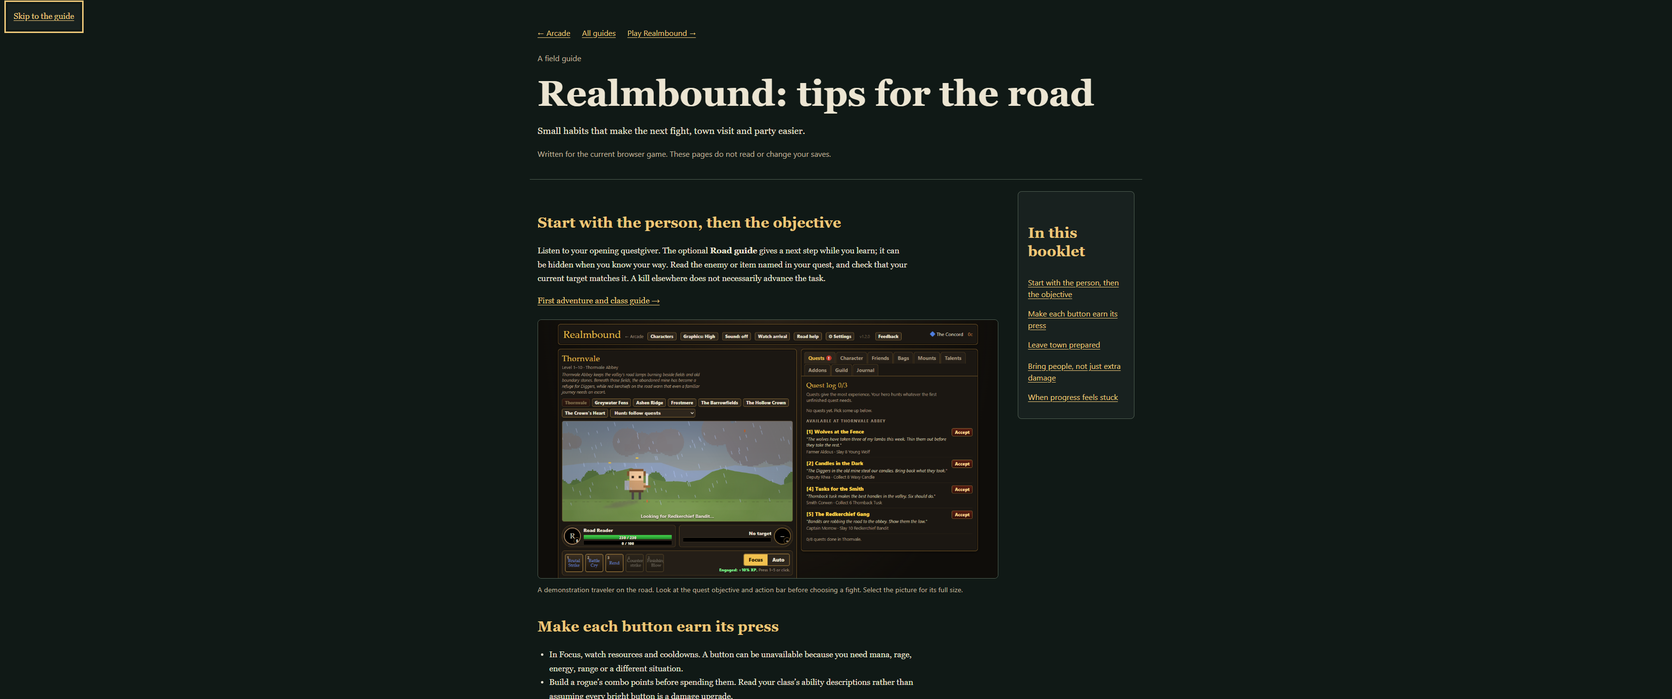
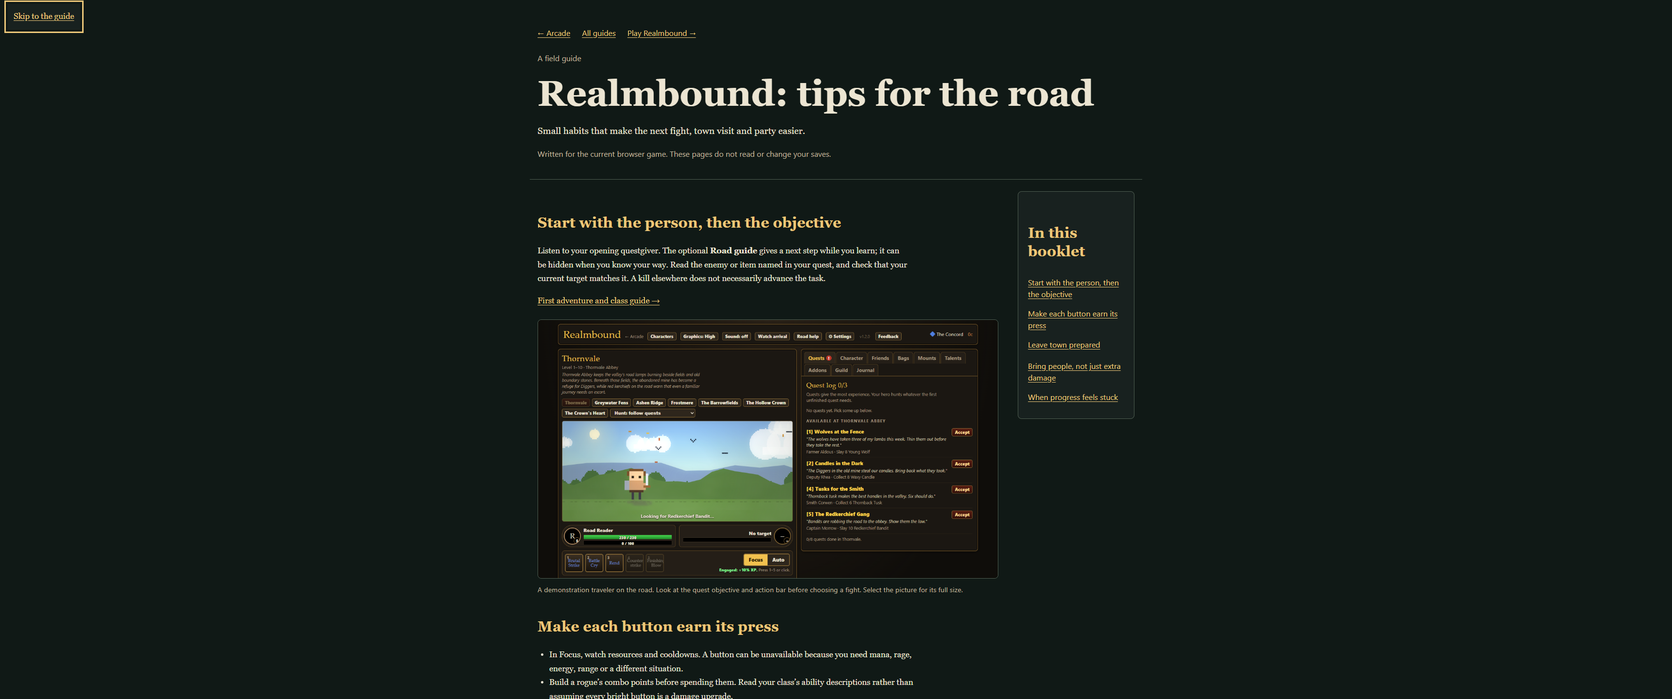
Explain Realmbound's rooms and commissions in its field guide

Changed region(s): [[0.311, 0.5938, 0.4977, 0.6875]]

diff --git a/guides/realmbound.html b/guides/realmbound.html
@@ -29,7 +29,7 @@
 <tr><td>Frostmere</td><td>30–40</td><td>Lanternrest Lodge / Whitebough Hearth</td></tr></tbody></table>
 <!-- GENERATED:places:end -->
 </section>
-<section id="start"><h2>2. Getting started: the first fifteen minutes</h2><ol><li><strong>Create a traveler.</strong> Choose a faction, one of its races, a class, a name and a journey length. You can keep several characters in the same browser save. Start with one until the controls feel familiar.</li><li><strong>Follow the first quest.</strong> Creating a hero accepts the opening quest automatically. Listen to the opening questgiver’s arrival scene; the optional Road guide can help you find the next step. Read the Quests tab and compare its requested enemy or drop with the target. The world loop finds fights; the action bar is where you decide how to handle them.</li><li><strong>Press an ability yourself.</strong> Stay in Focus while learning. Watch your health, resource, cast bar and cooldowns rather than pressing every button at once. Rage, energy and mana support different rhythms. An unavailable action usually needs time, a resource or the right situation.</li><li><strong>Collect the corpse.</strong> Take loot after a fight; the <kbd>L</kbd> key also loots. Open Bags and compare usable equipment with what you wear. Equip upgrades yourself while building the habit that earns GearCompare.</li><li><strong>Return the completed quest.</strong> A finished objective is ready to turn in; select its reward. Accept the next available task and hear what the giver says. Quest chains have prerequisites, so a later chapter will not appear simply because you traveled there.</li><li><strong>Make a town visit.</strong> Sell junk and repair equipment. Walk the hub with arrow keys or WASD, or tap the ground, and meet its services. Keeping space in Bags prevents useful drops being left behind.</li></ol>
+<section id="start"><h2>2. Getting started: the first fifteen minutes</h2><ol><li><strong>Create a traveler.</strong> Choose a faction, one of its races, a class, a name and a journey length. You can keep several characters in the same browser save. Start with one until the controls feel familiar.</li><li><strong>Follow the first quest.</strong> Creating a hero accepts the opening quest automatically. Listen to the opening questgiver’s arrival scene; the optional Road guide can help you find the next step. Read the Quests tab and compare its requested enemy or drop with the target. The world loop finds fights; the action bar is where you decide how to handle them.</li><li><strong>Press an ability yourself.</strong> Stay in Focus while learning. Watch your health, resource, cast bar and cooldowns rather than pressing every button at once. Rage, energy and mana support different rhythms. An unavailable action usually needs time, a resource or the right situation.</li><li><strong>Collect the corpse.</strong> Take loot after a fight; the <kbd>L</kbd> key also loots. Open Bags and compare usable equipment with what you wear. Equip upgrades yourself while building the habit that earns GearCompare.</li><li><strong>Return the completed quest.</strong> A finished objective is ready to turn in; select its reward. Accept the next available task and hear what the giver says. Quest chains have prerequisites, so a later chapter will not appear simply because you traveled there.</li><li><strong>Make a town visit.</strong> Sell junk and repair equipment. Walk the hub with arrow keys or WASD, or tap the ground. Enter the Inn and speak to its Keeper to rest; enter the Smithy and speak to its Smith to sell scraps or repair. Press Enter or walk into a person to talk. Entering a room alone spends nothing. Keeping space in Bags prevents useful drops being left behind.</li></ol>
 <p>Fifteen minutes is a learning route, not a timed requirement. If a fight feels too hard, inspect gear and durability, restore yourself and choose a safer target. You can take the longer journey without racing someone else's progress. Your hero begins with equipment; you do not need to buy an imaginary starter weapon before playing.</p>
 <p class="note">You may change journey length outside a dungeon: Breezy grants 60% more XP, Classic uses the intended baseline, and Long Road grants 40% less XP. These are XP choices, not separate stories or a guarantee of fixed completion hours.</p></section>
 <section id="systems"><h2>3. Systems explained</h2><h3>Health, resources and money</h3><p>Health is your margin for surviving a fight. Warriors spend rage, rogues use energy and combo points, and the other classes use mana. An ability's description tells you what it spends and how it helps. Resources are not shop currencies. Copper, silver and gold are ways of displaying your money, which pays for services, riding and other purchases. XP fills the next level; rested XP supplements kills rather than quest turn-ins.</p>
@@ -39,8 +39,17 @@
 <p>Kill XP is shared with a group bonus, so it is divided rather than awarded in full to everyone. Quest rewards remain whole. That makes grouped progress different from simply multiplying solo damage, and means a measured ideal group journey is not a forecast of solo play.</p>
 <h3>Pets and the stable</h3><p>Hunters tame beasts their level or lower during combat. Tame Beast channels for six seconds while the beast can still attack: prepare enough health before beginning. Pet families have different combat roles, diets and abilities. Feed appropriate food, watch happiness and build a bond through victories. Hungry pets lose effectiveness; a fallen pet needs reviving. The stable holds up to three pets and switches the active one in town.</p>
 <h3>Mounts and travel</h3><p>Riding is learned in town. Apprentice Riding starts at 10; Journeyman at 20. Learning a riding skill and owning a mount are separate purchases. A mount shortens travel and improves through time ridden. Some hunter pets can be trained as mounts once they meet the displayed riding, level and bond requirements; spiders cannot carry a rider. Read the stable's conditions before saving money for a particular animal.</p>
-<h3>Supplies and the guild</h3><p>Characters you are not currently playing can work the jobs board. Mining gathers ore, Herbalism gathers herbs and Questing pays the worker in XP and money. Supply progress is shared in the account's bank. Six ore make a repair kit; four herbs make a healing potion. Kits repair your equipment. Automatic potions can be switched off; when enabled, they are emergency help with a cooldown rather than limitless healing.</p>
-<p>A guild needs a level-40 hero in town, five signatures and five gold. Your other characters and sufficiently friendly companions can sign. Members have moods, favors and work to do; ignoring them indefinitely has consequences. Guard duty contributes guild XP, guild levels improve the account's XP bonus, and higher levels expand job slots. A guild is a developing community, not an immediate grant of free raid victories.</p>
+<h3 id="town-services">Rooms along the road</h3><p>Every region has its own town layout. Fenwatch uses boardwalks through the marsh; Lanternrest has a snowy lodge courtyard. The Inn and Smithy have walkable interiors. Speak to the Keeper for a free rest with your companions, or the Smith for scrap sales and repairs. Read the repair price before choosing. The bottom door returns you beside the building you entered. Auto keeps its usual Smithy visit and road exit.</p><figure><a href="images/realmbound-fenwatch.png"><img src="images/realmbound-fenwatch.png" alt="Fenwatch Post has boardwalks across marsh water and distinct Inn, Guild Hall and Smithy buildings." width="2106" height="904" loading="lazy"></a><figcaption>Fenwatch Post, viewed in the actual browser game with a demonstration traveler. Select the picture for its full size.</figcaption></figure><h3>Supplies and the guild</h3><p>Characters you are not currently playing can work the jobs board. Mining gathers ore, Herbalism gathers herbs and Questing pays the worker in XP and money. Supply progress is shared in the account's bank. Six ore make a repair kit; four herbs make a healing potion. Kits repair your equipment. Automatic potions can be switched off; when enabled, they are emergency help with a cooldown rather than limitless healing.</p>
+<p>A guild needs a level-40 hero in town, five signatures and five gold. Your other characters and sufficiently friendly companions can sign. Members have moods, favors and work to do; ignoring them indefinitely has consequences. Guard duty contributes guild XP, guild levels improve the account's XP bonus, and higher levels expand job slots. A guild is a developing community, not an immediate grant of free raid victories.</p><h3 id="commissions">A dependable piece from level 55</h3><p>With a founded guild, choose <strong>Commission guild gear</strong> when speaking to the Smith inside a Smithy. Browse the patterns, then inspect the item, your available supplies and the full price. Missing requirements are shown plainly. Nothing is spent until you confirm; the finished equipment goes into your Bags and waits for you to equip it.</p><p>Commissions provide fixed item-level-55 rares for your class in every equipment slot. They can replace a weak piece without waiting for a lucky drop. Later dungeon, Heroic and raid rewards keep their higher item levels and special rewards. Ore and herbs come from the shared bank; the coin fee comes from this hero’s purse. The fee exceeds the item’s resale price, so commissioning to sell loses money. Keep enough supplies for repairs and potions before outfitting every slot.</p><!-- GENERATED:commissions:start -->
+<table><thead><tr><th scope="col">Slot</th><th scope="col">Guild ore</th><th scope="col">Guild herbs</th><th scope="col">Coin fee</th></tr></thead><tbody><tr><td>Head</td><td>18</td><td>6</td><td>1g 44s 90c</td></tr>
+<tr><td>Chest</td><td>24</td><td>8</td><td>1g 44s 90c</td></tr>
+<tr><td>Legs</td><td>20</td><td>6</td><td>1g 44s 90c</td></tr>
+<tr><td>Feet</td><td>12</td><td>4</td><td>1g 44s 90c</td></tr>
+<tr><td>Hands</td><td>12</td><td>4</td><td>1g 44s 90c</td></tr>
+<tr><td>Weapon</td><td>30</td><td>12</td><td>2g 2s 87c</td></tr>
+<tr><td>Offhand</td><td>18</td><td>8</td><td>1g 44s 90c</td></tr>
+<tr><td>Trinket</td><td>20</td><td>12</td><td>1g 44s 90c</td></tr></tbody></table>
+<!-- GENERATED:commissions:end --><figure><a href="images/realmbound-commission.png"><img src="images/realmbound-commission.png" alt="A Smithy portrait conversation shows an Emberscript Staff, its actual stats, guild supply cost, coin fee and available balance before confirmation." width="2106" height="904" loading="lazy"></a><figcaption>The commission preview appears over the Smithy scene. This demonstration uses a level-55 Mage; its staff and stats are real game data. Select the picture for its full size.</figcaption></figure>
 <h3>Dungeons, Journal and comfort</h3><p>Dungeons shows entry levels and whether you are in the right zone. Find a group selects companions, with a fill option that helps cover roles. Normal clears unlock successive Heroic tiers; difficulty and rewards rise together. Journal records your journey and includes save tools. Settings adjusts comfort such as text size and reduced motion; Graphics can trade richer effects for performance. Sound starts off and can be enabled in effects-only or music-and-effects mode.</p>
 <p>Use the save download or export tools before experimenting or moving devices. Browser storage is local: another browser or computer does not automatically share your characters. Importing a save is a deliberate action. This booklet does not read or modify your save.</p></section>
 <section id="automation"><h2>4. Automation you earn</h2><p>Auto can operate your action bar, while Focus keeps room for better timing and reactions. Focus also has an inactivity fallback, which is active at the start of a new hero: press an ability to take control. Completing a quest objective still requires choosing its reward yourself until you earn and enable QuestHelper. Its Rotation Macro improves through your own ability presses. The Addons tab shows earned tools and toggles; unlocking one does not require a purchase. Leave a tool off when you want to make that choice yourself.</p>
@@ -74,5 +83,5 @@
 <h3>The Hollow Key and The Hollow Throne</h3><p>The final three Crown's Heart quests require clears of the Silent Barrows and Rootrot Hollow. Completing ch14, A Road Past the Throne, finishes the Hollow Key attunement. At level 60 it opens The Hollow Throne: you and nine eligible raiders, with at least two tanks and two healers counting your own role. Your companions, other characters and a founded guild's adventurers can contribute.</p>
 <p>Seraveth, the Ashwing matriarch, waits beyond the approach. Before a living boss you choose a plan; during the encounter the raid's tells ask for calls such as Swap, Adds, Spread and Stack. Read the displayed mechanic rather than treating every call as a button to press on cooldown. Clearing the raid earns Raid Leader, improving Auto's calls. The raid has its own boss lockout; it is not simply another unlimited Heroic rung.</p>
 <p>Legendary beasts in the regions can leave reins behind. A rumor is not a guaranteed drop, and no particular rare mount is required to complete the story. Late discoveries should give you reasons to revisit the Reach, not make its earlier companions disposable.</p></details></section>
-<section id="sources"><h2>About this booklet</h2><p>The setting follows the <a href="../docs/lore/realmbound.md">lore record</a>. Mechanics follow the game's current source, with the reference tables generated directly from its data. Proposed crafting, future regions and other planned systems are deliberately excluded. This is the Realmbound portion of T8; other guides will arrive separately.</p><p class="meta">Maintainers: run <code>node scripts/update-realmbound-guide.cjs</code> after a data change, or append <code>--check</code> to verify the checked-in tables. The published page needs no JavaScript or generator to read.</p><p><a href="../games/realmbound/">Take the road →</a></p></section>
+<section id="sources"><h2>About this booklet</h2><p>The setting follows the <a href="../docs/lore/realmbound.md">lore record</a>. Mechanics follow the game's current source, with the reference tables generated directly from its data. Unbuilt regions and other proposed systems are deliberately excluded. Walk-in town services and guild commissions described here are available in the browser game. This is the Realmbound portion of T8; <a href="index.html">other published guides are on the shelf</a>.</p><p class="meta">Maintainers: run <code>node scripts/update-realmbound-guide.cjs</code> after a data change, or append <code>--check</code> to verify the checked-in tables. The published page needs no JavaScript or generator to read.</p><p><a href="../games/realmbound/">Take the road →</a></p></section>
 </article><aside aria-label="Contents"><strong>In this booklet</strong><nav><a href="#world">The world</a><a href="#start">Your first fifteen minutes</a><a href="#systems">Systems explained</a><a href="#automation">Earned automation</a><a href="#tips">Tips for the road</a><a href="#spoilers">Spoilers, folded away</a></nav><p>Take your time. This page contains no save tools, timers or gameplay.</p></aside></main><footer><a href="index.html">All guides</a> · <a href="../index.html">Back to the arcade</a></footer></body></html>

diff --git a/guides/realmbound-tips.html b/guides/realmbound-tips.html
@@ -3,7 +3,7 @@
 <section id="start"><h2>Start with the person, then the objective</h2><p>Listen to your opening questgiver. The optional <strong>Road guide</strong> gives a next step while you learn; it can be hidden when you know your way. Read the enemy or item named in your quest, and check that your current target matches it. A kill elsewhere does not necessarily advance the task.</p><p><a href="realmbound.html#start">First adventure and class guide →</a></p>
 <figure><a href="images/realmbound-road.png"><img src="images/realmbound-road.png" alt="Realmbound with an adventurer on the road and the game controls visible." width="1366" height="768" loading="lazy"></a><figcaption>A demonstration traveler on the road. Look at the quest objective and action bar before choosing a fight. Select the picture for its full size.</figcaption></figure></section>
 <section id="combat"><h2>Make each button earn its press</h2><ul><li>In Focus, watch resources and cooldowns. A button can be unavailable because you need mana, rage, energy, range or a different situation.</li><li>Build a rogue’s combo points before spending them. Read your class’s ability descriptions rather than assuming every bright button is a damage upgrade.</li><li>Manual combo and dodge actions use <kbd>C</kbd> and <kbd>D</kbd>. Pay attention to their prompts and timing.</li><li>Loot with <kbd>L</kbd>, compare the new item’s slot and class requirements, and equip an upgrade before moving on.</li></ul><p class="note">Focus returns to the game’s fallback behavior after inactivity. It is not a guarantee that nothing happens while you are away. Reading a personal story or the hearth book pauses the world; ordinary inactivity does not.</p></section>
-<section id="town"><h2>Leave town prepared</h2><p>Repair worn equipment and sell junk before a difficult stretch. Full Bags can block loot; a durability problem can make familiar enemies feel suddenly harder. Buying riding training and owning a mount are separate steps: check both before expecting to ride.</p><p>For hunters, choose a tameable beast no higher than yourself. The channel takes six seconds and the beast can still attack, so arrive healthy. Keep suitable food and inspect your pet’s needs.</p></section>
-<section id="party"><h2>Bring people, not just extra damage</h2><p>A normal party holds you and up to four companions. A tank and healer can change which fights are manageable. Talents determine roles; spreading points without a purpose can produce a group that looks diverse but lacks the support you expected.</p><p>Kill XP is divided with a group bonus; quest rewards remain whole. A party is not an automatic promise of faster personal leveling. Share loot with the person who needs it, and spend time with the members you want to know.</p><p>Guild members tell their personal stories by the hall hearth, in portrait conversations. Registrar Mott’s hearth book helps you find a ready conversation; the Guild tab records what already happened. Present party time on the road counts toward their story gates. Jobs and time away do not.</p>
+<section id="town"><h2>Leave town prepared</h2><p>Enter the Inn and speak to its Keeper to rest with your companions; enter the Smithy and speak to its Smith to sell scraps or repair worn equipment before a difficult stretch. Entering the room alone does not buy a service. Full Bags can block loot; a durability problem can make familiar enemies feel suddenly harder. Buying riding training and owning a mount are separate steps: check both before expecting to ride.</p><p>At level 55 with a founded guild, <a href="realmbound.html#commissions">guild commissions</a> give a reliable rare item for a weak slot. Check the ore, herbs and coin fee before confirming. These supplies also make kits and potions, so replacing one weak piece may be wiser than buying a whole outfit. The item stays in your Bags until you equip it.</p><p>For hunters, choose a tameable beast no higher than yourself. The channel takes six seconds and the beast can still attack, so arrive healthy. Keep suitable food and inspect your pet’s needs.</p></section>
+<section id="party"><h2>Bring people, not just extra damage</h2><p>A normal party holds you and up to four companions. A tank and healer can change which fights are manageable. Talents determine roles; spreading points without a purpose can produce a group that looks diverse but lacks the support you expected.</p><p>Kill XP is divided with a group bonus; quest rewards remain whole. A party is not an automatic promise of faster personal leveling. Share loot with the person who needs it, and spend time with the members you want to know.</p><p>Guild members tell their personal stories by the hall hearth, in portrait conversations. Registrar Mott’s Hearth Book helps you find a ready conversation; the Guild tab records what already happened. Present party time on the road counts toward their stories. Jobs and time away do not.</p>
 <figure><a href="images/realmbound-hearth.png"><img src="images/realmbound-hearth.png" alt="A guild member speaks in a portrait conversation inside the Realmbound guild hall." width="1366" height="768" loading="lazy"></a><figcaption>The hearth is a meeting place. Personal stories are conversations in the world, rather than decisions in the Guild tab. Select the picture for its full size.</figcaption></figure></section>
-<section id="stuck"><h2>When progress feels stuck</h2><table><thead><tr><th scope="col">What you notice</th><th scope="col">What to check</th></tr></thead><tbody><tr><td>Quest count is not moving</td><td>Match the named enemy/drop; check prerequisites and whether the objective is already ready to turn in.</td></tr><tr><td>New gear will not equip</td><td>Check class, slot and level requirements, and make room in Bags.</td></tr><tr><td>A story is unavailable</td><td>Check friendship, mood, present party time and whether the member is working or raiding. Return them and meet in the hall in Focus.</td></tr><tr><td>A dungeon group struggles</td><td>Check repair, level eligibility, equipment and actual talent roles before assuming more damage solves it.</td></tr></tbody></table><p>Journey length can change outside a dungeon: Breezy gives 60% more XP; Long Road gives 40% less. Choose the pace you enjoy. <a href="realmbound.html#spoilers">Late-game dungeon and raid requirements are in the main guide’s closed spoiler section.</a></p></section></article><aside aria-label="Contents"><h2>In this booklet</h2><nav><a href="#start">Start with the person, then the objective</a><a href="#combat">Make each button earn its press</a><a href="#town">Leave town prepared</a><a href="#party">Bring people, not just extra damage</a><a href="#stuck">When progress feels stuck</a></nav></aside></main><footer><a href="index.html">All guides</a> · <a href="../index.html">Return to the arcade</a><p>Controls and numbers checked against the current game source. Pictures show the actual browser games, with demonstration characters; no future features are promised.</p></footer></body></html>
+<section id="stuck"><h2>When progress feels stuck</h2><table><thead><tr><th scope="col">What you notice</th><th scope="col">What to check</th></tr></thead><tbody><tr><td>Quest count is not moving</td><td>Match the named enemy/drop; check prerequisites and whether the objective is already ready to turn in.</td></tr><tr><td>New gear will not equip</td><td>Check whether your class supports the weapon, off-hand or armour type. Make room in Bags before collecting more loot.</td></tr><tr><td>A commission is unavailable</td><td>Reach level 55, found a guild, speak to a Smith inside the Smithy in Focus, and check bag space, shared ore/herbs and this hero’s purse.</td></tr><tr><td>A story is unavailable</td><td>Check friendship, mood, present party time and whether the member is working or raiding. Return them and meet in the hall in Focus.</td></tr><tr><td>A dungeon group struggles</td><td>Check repair, level eligibility, equipment and actual talent roles before assuming more damage solves it.</td></tr></tbody></table><p>Journey length can change outside a dungeon: Breezy gives 60% more XP; Long Road gives 40% less. Choose the pace you enjoy. <a href="realmbound.html#spoilers">Late-game dungeon and raid requirements are in the main guide’s closed spoiler section.</a></p></section></article><aside aria-label="Contents"><h2>In this booklet</h2><nav><a href="#start">Start with the person, then the objective</a><a href="#combat">Make each button earn its press</a><a href="#town">Leave town prepared</a><a href="#party">Bring people, not just extra damage</a><a href="#stuck">When progress feels stuck</a></nav></aside></main><footer><a href="index.html">All guides</a> · <a href="../index.html">Return to the arcade</a><p>Controls and numbers checked against the current game source. Pictures show the actual browser games, with demonstration characters; no future features are promised.</p></footer></body></html>

diff --git a/docs/QUEUE.md b/docs/QUEUE.md
@@ -68,7 +68,7 @@ index.html or style.css until those phases are merged.
 | A7 | **R6** Realmbound hub variety | done, merged 2026-10-08 by Claude (Realmbound v1.4.0) | A layout per zone, inn and smithy interiors |
 | A7b | **R5** crafted gear from 55 | done, merged 2026-10-08 by Claude (Realmbound v1.5.0) | Separate PR after R6 |
 | A8a | **Otherworld browser runner save safety** | done, merged 2026-10-08 by Claude (PR #56; tests only) | Restore recovery backups too, including failed/thrown checks |
-| A8b | **Realmbound guide: rooms and commissions** | claimed: Codex, 2026-10-08, codex/realmbound-guide-services | Current hub/service instructions, actual pictures and generated costs |
+| A8b | **Realmbound guide: rooms and commissions** | ready for review: Codex, 2026-10-08, PR #57 | Current hub/service instructions, actual pictures and generated costs |
 | A9 | **T35** Otherworld O1, a living Lanthorn | open (2026-10-08) | docs/ROADMAP.md T35; moved from Claude's B0b |
 | A10 | **T36** Diamond Career in the game window, and a road trip | open (2026-10-08) | docs/ROADMAP.md T36 |
 | A11 | **T37** The shared creature catalogue, batch 2 | open (2026-10-08) | docs/ROADMAP.md T37; data and lore only |

diff --git a/docs/game-guides.md b/docs/game-guides.md
@@ -9,3 +9,5 @@ Validation: all links, section anchors and images resolve; keyboard skip links w
 Before/after phone and current phone/ultrawide captures: docs/screenshots/game-guides/. No gameplay, engine, cache or version changes.
 
 Review polish (2026-10-08): rebased onto main 24f346b. The table checker now accepts LF and CRLF checkouts while still detecting stale data; regeneration preserves the checkout’s line endings. The existing hall-location assertions accept Claude’s capitalized Guild Hall text. Real game pictures were recaptured from the updated source. No gameplay behavior changed.
+
+Service refresh (Codex, 2026-10-08): walk-in Inn/Smithy instructions, Fenwatch and commission pictures from the actual released game; crafting fees now form a generated table. Guides no longer claim an equipment-level restriction absent from canEquip(). Same four-width/static/save checks pass; all eight browser pages pass, including the new 35-check runner-safety page. No future engine gameplay is promised.

diff --git a/docs/PROJECTS.md b/docs/PROJECTS.md
@@ -45,7 +45,7 @@ and the arcade's homepage shows them off. Any assistant may push these forward w
 
 | T8-R | **Realmbound guide and lore page** (T8, Lane A3) | M | Design | — | ready for review: Codex, 2026-10-07, PR #44 | docs/ROADMAP.md T8; Wildbond waits for its redesign. A8 opening audit ready in PR #44: docs/realmbound-first-ten-minutes.md (documentation only; L4/V1 implementation remains open) |
 
-| T8-Rb | **Realmbound guide: rooms and commissions** | S | Polish | R5, R6 | claimed: Codex, 2026-10-08, codex/realmbound-guide-services | Guides follow the released Smithy and Inn |
+| T8-Rb | **Realmbound guide: rooms and commissions** | S | Polish | R5, R6 | ready for review: Codex, 2026-10-08, PR #57 | Guides follow the released Smithy and Inn |
 
 | RE-G | **Godot research assessment and animation/migration research prompt** | S | Design | — | ready for review: Codex, 2026-10-07, PR #44 (documentation only, requested by Evan) | Separate research files; no Godot or shared plan edits |
 

diff --git a/START-HERE.md b/START-HERE.md
@@ -137,6 +137,8 @@ a default so work never waits.
 
 ## Session log (newest first; one or two lines each)
 
+- 2026-10-08 · Codex: PR #57 guide refresh: illustrated rooms and commissions, generated costs, corrected equipment advice. All eight test pages pass; static guide checks pass at phone, laptop, desktop and ultrawide widths.
+
 - 2026-10-08 Claude (later): Diamond Career v0.3.1 (Evan couldn't see the pitch: field cleared mid-throw, tap to swing, a circle at the plate). Starfall
   Godot slice 3: the Smithy (three strikes on the anvil, Garrick takes over after five pieces), the Apothecary (brew tonics, set the
   price), plots unlock with rank, adventurers save their share; 85 checks. ChatGPT reset: Lane A refilled with T35-T37.

diff --git a/README.md b/README.md
@@ -39,6 +39,8 @@ Anyone continuing this project (any AI assistant or person): open [START-HERE.md
 
 ## Changelog
 
+- Realmbound (2026-10-08): illustrated guide to walk-in Inn and Smithy services and level-55 guild commissions, with costs generated from the game data.
+
 - Diamond Career v0.3.1 (2026-10-08): batting you can see. Nothing covers the field while the ball is coming: tap anywhere on the field (or press Space) to swing, a circle at the plate lights up at the moment to swing, the controls sit high on the field clear of the plate, and the at-bat box says plainly how to hit (Evan's report).
 
 <<<<<<< HEAD
